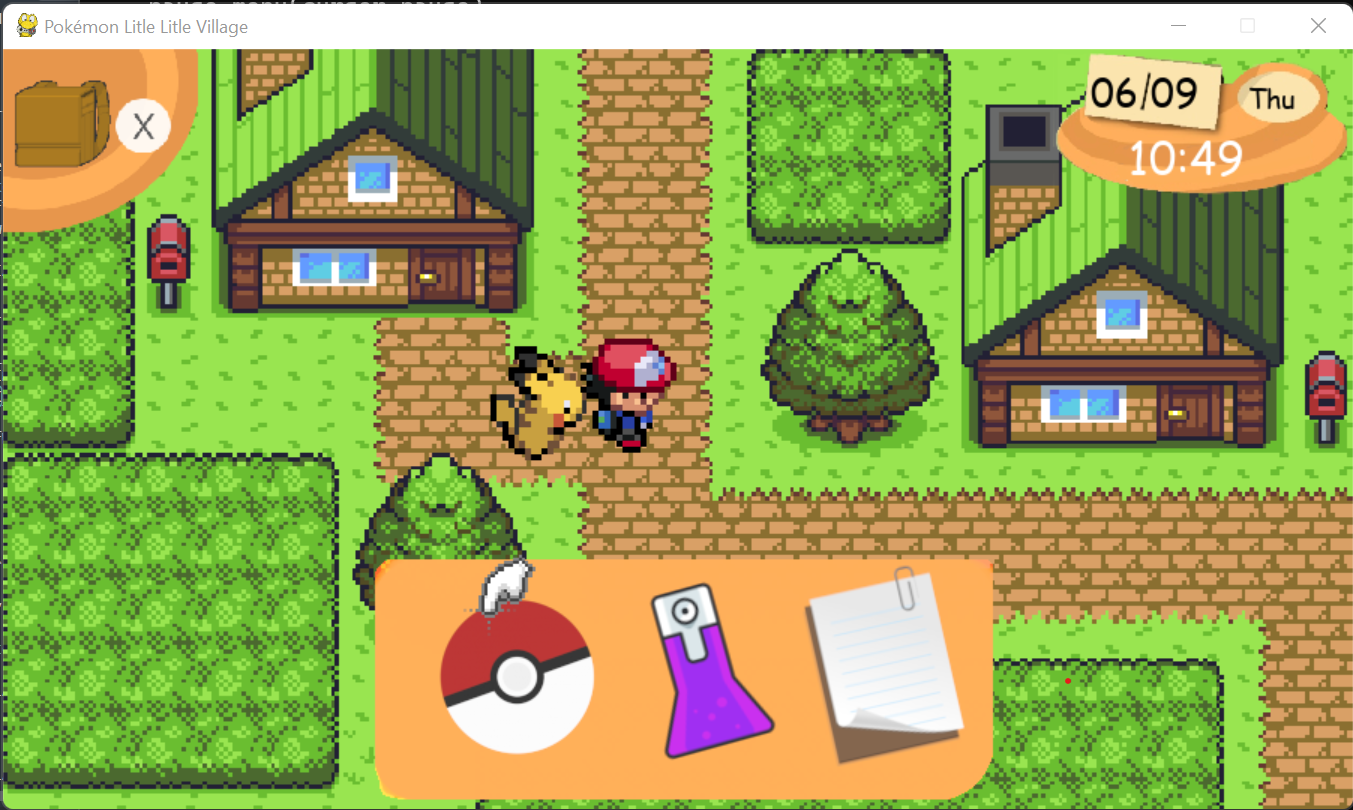
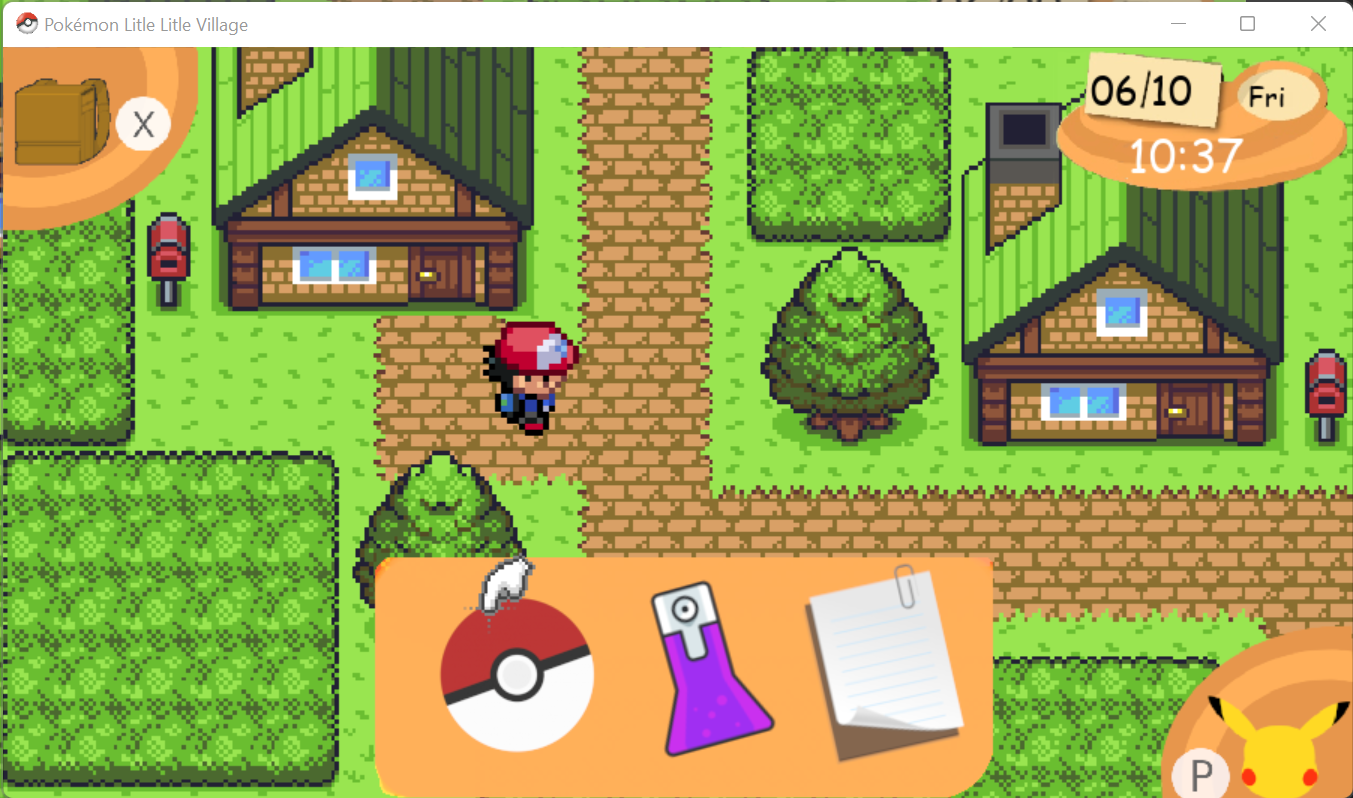
Free Pika Button

diff --git a/main.py b/main.py
@@ -137,7 +137,7 @@ OAK_POKEBALL_2 = pygame.Rect(640, 300, 40, 60)
 OAK_POKEBALL_3 = pygame.Rect(690, 300, 40, 60)
 
 OAK_RECTANGLE_MAP = pygame.Rect(400, -10, 50, 70)
-SHOP_RECTANGLE_MAP = pygame.Rect(400, -10, 50, 70)
+SHOP_RECTANGLE_MAP = pygame.Rect(400, -20, 50, 70)
 HOME_RECT_MAP = pygame.Rect(0, 400, 100, 100)
 
 
@@ -817,6 +817,7 @@ PAUSE_MENU_IMG = pygame.transform.scale(pygame.image.load(os.path.join('Assets/m
 CLOCK_IMG = pygame.transform.scale(pygame.image.load(os.path.join('Assets/background/clock', "clock.png")), (200, 100))
 BAG_IMG = pygame.transform.scale(pygame.image.load(os.path.join('Assets/background/clock', "bag.png")), (110, 70))
 BACK_BG_IMG = pygame.transform.scale(pygame.image.load(os.path.join('Assets/background/clock', "background.png")), (130, 130))
+PIKA_BG_IMG = pygame.transform.scale(pygame.image.load(os.path.join('Assets/background/clock', "background_down.png")), (130, 130))
 
 
 
@@ -3622,6 +3623,7 @@ def create_shopping_area (pokemon_trainer, fecha ,POKEBALL_IMG, TRAINER, trainer
 	time = POKEBALLS_COUNTER.render("" + str(hora_str), 1, WHITE)
 
 	WIN.blit(BACK_BG_IMG, (0,0))
+	WIN.blit(PIKA_BG_IMG, (770,375))
 	WIN.blit(BAG_IMG, (5,15))
 	WIN.blit(CLOCK_IMG, (700, 0))
 	WIN.blit(date, (725, 10))
@@ -4830,6 +4832,8 @@ def create_map(pokemon_trainer, fecha ,POKEBALL_IMG, TRAINER, trainer_pokeballs,
 	time = POKEBALLS_COUNTER.render("" + str(hora_str), 1, WHITE)
 
 	WIN.blit(BACK_BG_IMG, (0,0))
+	if free_pika % 2 == 0 :
+		WIN.blit(PIKA_BG_IMG, (770,377))
 	WIN.blit(BAG_IMG, (5,15))
 	WIN.blit(CLOCK_IMG, (700, 0))
 	WIN.blit(date, (725, 10))

diff --git a/README.md b/README.md
@@ -9,6 +9,7 @@ Pocket Monster based game powered by Python and Pygame
 <img src="src/Pokemon_Litle_Litle_Town_3.png">
 <img src="src/Pokemon_Litle_Litle_Town_4.png">
 <img src="src/Pokemon_Litle_Litle_Town_5.png">
+<img src="src/Pokemon_Litle_Litle_Town_6.png">
 <img src="src/Pokemon_Litle_Litle_Town_2.png">
 
 <br/>
